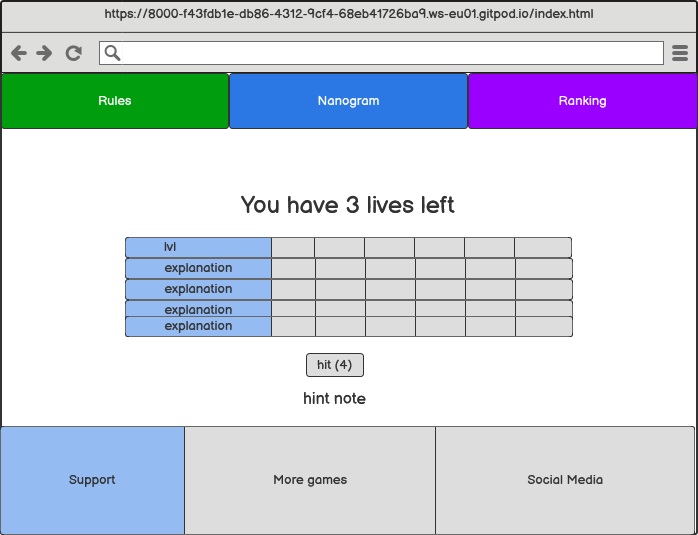
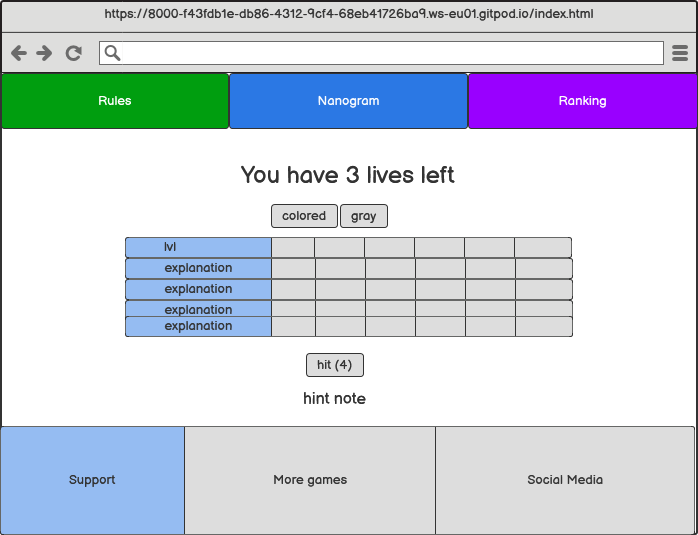
fixing the wireframes

Changed region(s): [[0.3309, 0.2991, 0.6619, 0.4486]]

diff --git a/assets/css/style.css b/assets/css/style.css
@@ -245,7 +245,7 @@ body{
       color: #fafafa; 
       height: 35px;
       font-size: 18px;
-      box-shadow: 2px;
+      border-radius: 5px;
 }
 
 #hint-btn{

diff --git a/README.md b/README.md
@@ -23,11 +23,11 @@ This puzzle is a fun colorful game and like all the other simple puzzle game imp
 
 - As a player, I want the game page don't pop up any alert or bugs while I'm playing.
 
-- As a player, I want to compare my result to other players and find out about high scores.
+- As a player, I want to compare my result to other players and find out about high scores and some details about top players.
 
 - As a player, I want to be able to contact the support in case of any bugs or problems occurring during the game.
 
-- As a player, I want to get some recommendations for similar games.
+- As a player, I want to get some recommendations for more games.
 
 - As a player, I want to see social media and connect with other players who are playing the game.
 
@@ -68,11 +68,12 @@ This puzzle is a fun colorful game and like all the other simple puzzle game imp
     - **Nanogram pages**
 
      - This section consist of the main nanogram puzzle.
-     - In this page and the Rules page there is also a header that shows the player how much life they have left.
+     - In this page and the Rules page there is also a header that shows the player how much life they have left and 2 buttons to click between clicking on colored or gray aquares.
 
    - **Ranking page**
 
-     - This section consists of a table of the name of the players, their rank and their location.
+     - This section consists of a table of the name of the players, their rank and their location and a google map under that, which shows the location of top players on the map.
+
 
 ### Wireframes
 
